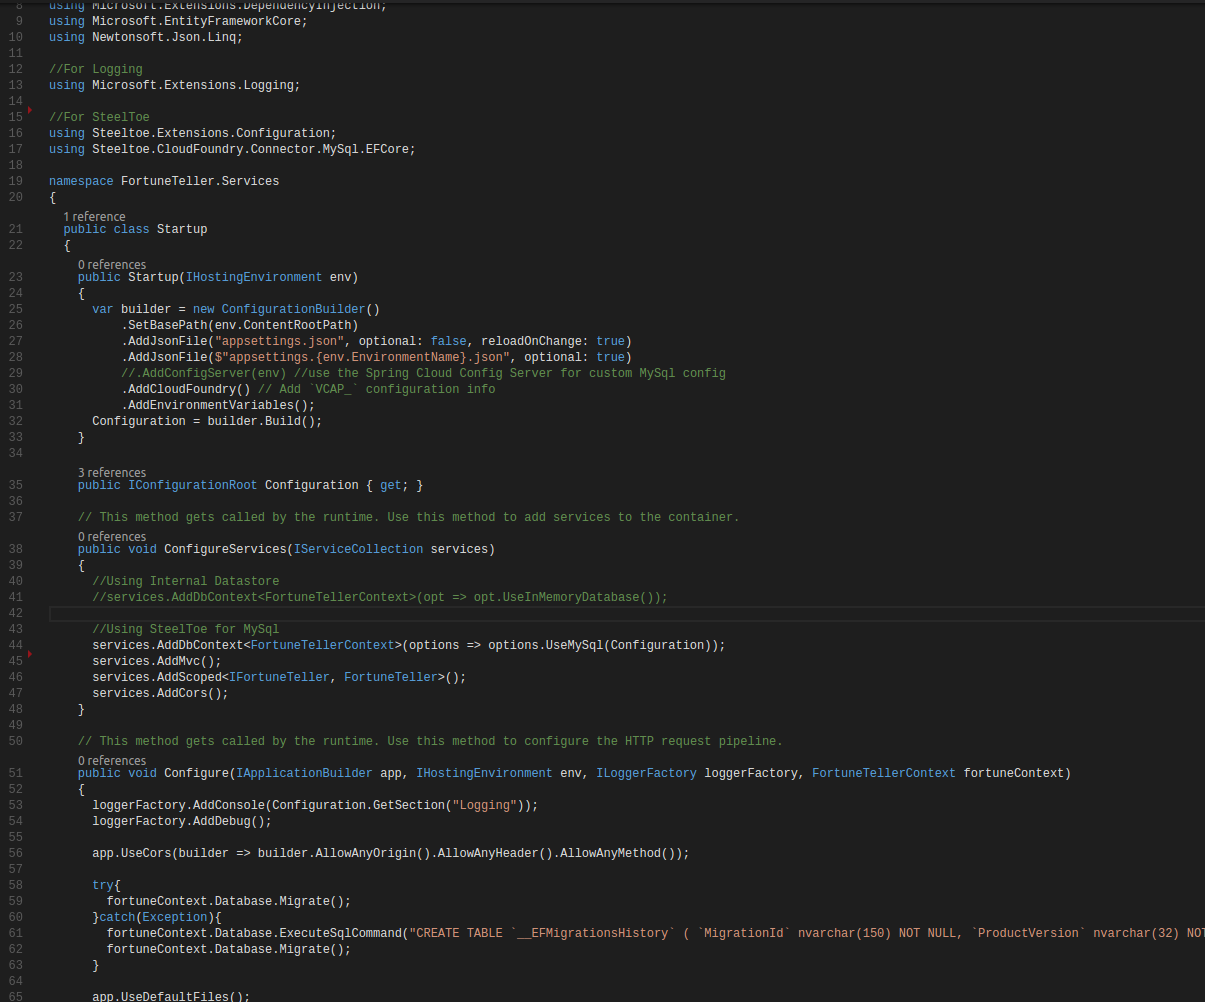
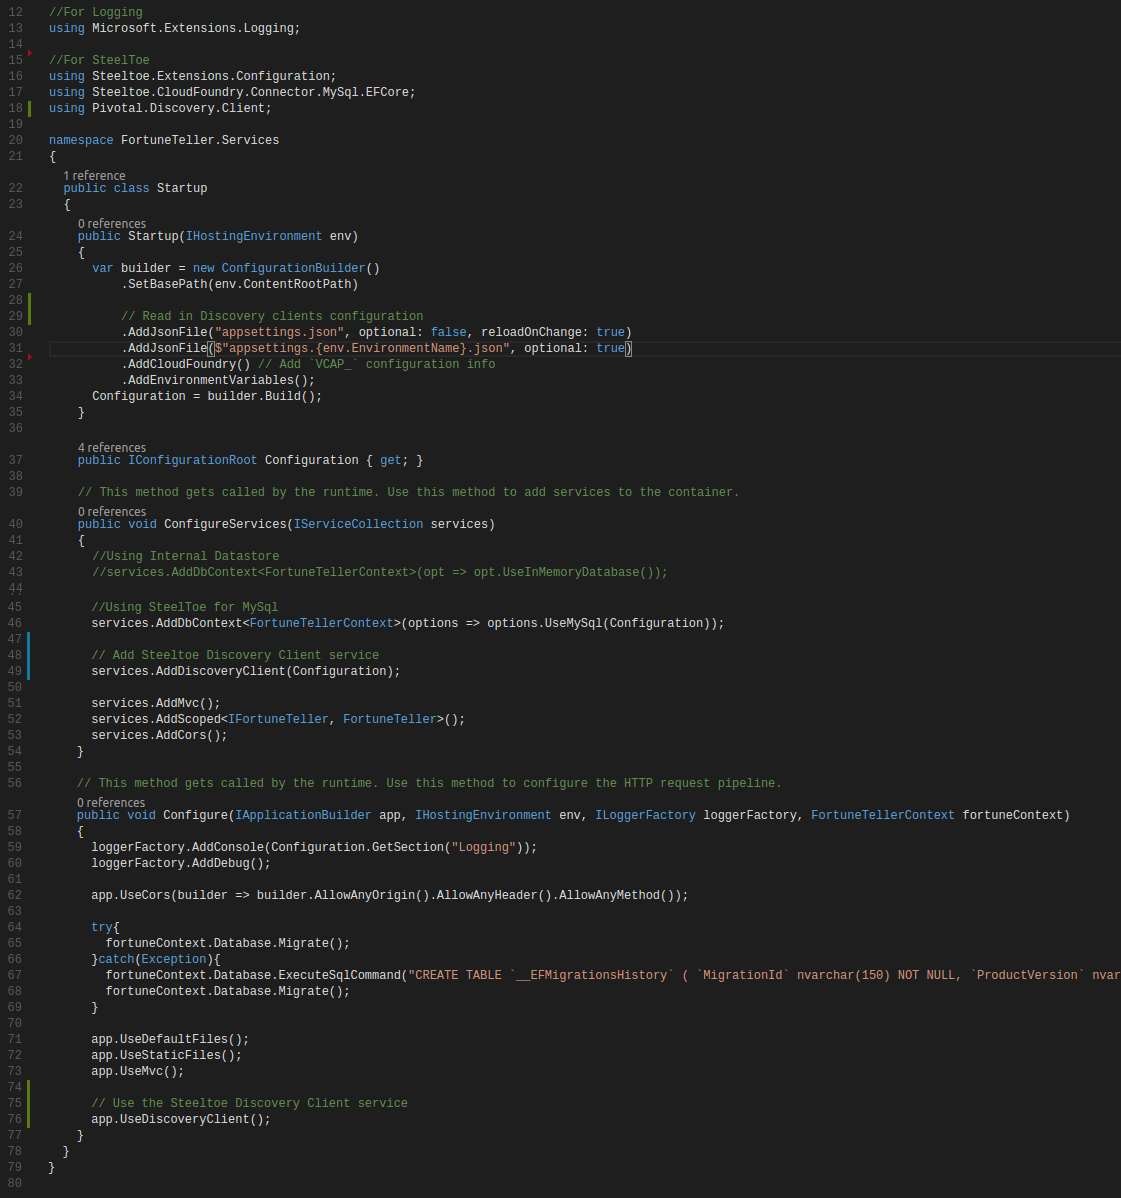
Move labs

diff --git a/Session-02/Lab-07/README.md b/Session-02/Lab-07/README.md
@@ -1,56 +1,103 @@
-[appmanager-service-registry]: img/appmanager-service-registry.png " "
+[vsCodeFortuneTellerCs]: img/vsCodeFortuneTellerCs.png " "
+[vsCodeAppSettingsCs]: img/vsCodeAppSettingsCs.png " "
 [vsCodeStartupCs]: img/vsCodeStartupCs.png " "
+[vsCodeManifestCs]: img/vsCodeManifestCs.png " "
 
-# Lab 07 - Refactor DotNet Core with MySql Abstractions
+# Lab 08 - Refactor DotNet Core for Service Discovery
 
-## Change MySql Connection
+## Update AppSettings With Eureka
+1. Within the Fortune Teller service app, go to the /Services/appsettings.json and update the following:
+[Just after the closing bracket for the "Logging" node, add the below json]
+[!!Remember to replace THE_URL_OF_EUREKA with the actual URL]
+```
+,"spring": {
+    "application": {
+      "name": "fortuneTellerService"
+    }
+  },
+  "eureka": {
+    "client": {
+      "serviceUrl": "<THE_URL_OF_EUREKA>",
+      "shouldRegisterWithEureka": false
+    }
+  }
+```
+2. Your file should look like this:
+
+![alt text][vsCodeAppSettingsCs]
+## Add SteelToe Dependencies amd Spring Cloud Discovery
 1. Within the Fortune Teller service app, go to the /Services/Startup.cs file and update the following:
-[Add dependencies]
+[Add the dependencies]
 ```
-using Steeltoe.Extensions.Configuration;
-using Steeltoe.CloudFoundry.Connector.MySql.EFCore;
+using Steeltoe.Discovery.Client;
 ```
-[Update the builder configuration to include CloudFoundry service]
+[Add the following line to ConfigureServices method]
 ```
-var builder = new ConfigurationBuilder()
-				.SetBasePath(env.ContentRootPath)
-				.AddJsonFile("appsettings.json", optional: false, reloadOnChange: true)
-				.AddJsonFile($"appsettings.{env.EnvironmentName}.json", optional: true)
--->			.AddCloudFoundry()
-				.AddEnvironmentVariables();
+services.AddDiscoveryClient(Configuration);
 ```
-[Comment out the InMemory data context]
+[Add the following line to the Configure method]
 ```
-//services.AddDbContext<FortuneTellerContext>(opt => opt.UseInMemoryDatabase());
+app.UseDiscoveryClient();
 ```
-[Remove the below code]
-```
-//Using MySql Datastore
-string connString = "";
+2. Your file should look like this:
 
-try{
-	dynamic vcap = JObject.Parse(Environment.GetEnvironmentVariable("VCAP_SERVICES"));
-	connString = String.Format("Server={0};port={1};Database={2};uid={3};pwd={4};",
-		vcap["p-mysql"][0].credentials.hostname,
-		vcap["p-mysql"][0].credentials.port,
-		vcap["p-mysql"][0].credentials.name,
-		vcap["p-mysql"][0].credentials.username,
-		vcap["p-mysql"][0].credentials.password);
-}catch(Exception ex){
-	Console.Error.WriteLine("Error retrieving database connection string from environment variables");
-	Console.Error.WriteLine(ex);
-	Environment.Exit(1);
-}
-
-services.AddDbContext<FortuneTellerContext>(opt => opt.UseMySQL(connString));
-```
-[Add the new new MySql connection]
-```
-services.AddDbContext<FortuneTellerContext>(opt => opt.UseMySql(Configuration));
-```
-2. Save your changes
-3. The Startup.cs file should look like this:
 ![alt text][vsCodeStartupCs]
+## Update Manifest With Spring Cloud Services
+1. Within the Fortune Teller service app, go to the manifest.yml file and update the following:
+[Add Spring Cloud services binding]
+[!!Remember to replace NAME_OF_YOUR_SPRING_CLOUD_SERVICE and NAME_OF_YOUR_SPRING_CLOUD_CONFIG_SERVICE with the actual service names]
+```
+  services:
+    - mysql-100mb
+    - <NAME_OF_YOUR_SPRING_CLOUD_SERVICE>
+```
+2. Your file should look like this:
+
+![alt text][vsCodeManifestCs]
+## About This
+We have now told the app where to find the Eureka discovery server, configured it to only discover services and not register services. Once the app has started, the Discovery client will begin to operate in the background; both registering services and periodically fetching the service registry from the server. The simplest way of using the registry to lookup services is to use the Steeltoe DiscoveryHttpClientHandler together with a System.Net.Http.HttpClient.
+
+Further reading and examples are available at: http://steeltoe.io/docs/steeltoe-discovery/
+
+## Consume Discovered Service
+1. Within the Fortune Teller service app, go to the /Services/Controllers/FortuneCOntroller.cs file and update the following:
+[Add the SteelToe and Json dependency]
+```
+using Pivotal.Discovery.Client;
+using Newtonsoft.Json;
+```
+[Within the FortuneController class, as a class wide variable, add the discovery handler]
+```
+DiscoveryHttpClientHandler _handler;
+```
+[Refactor the FortuneController constructor method]
+```
+public FortuneController(IFortuneTeller iFortuneTeller, IDiscoveryClient client ){
+      _iFortuneTeller = iFortuneTeller ;
+      _handler = new DiscoveryHttpClientHandler(client);
+  }
+```
+[Refactor the GetRandom method to use discovered services]
+```
+public Fortune GetRandom(){
+	//return _iFortuneTeller.GetRandom();
+  var client = new System.Net.Http.HttpClient(_handler, false);
+  //get the random fortune
+  var task = client.GetStringAsync("https://fortunes/random");
+  task.Wait();
+
+  var result = task.Result;
+
+  Fortune f = (Fortune)JsonConvert.DeserializeObject(result);
+  return f;
+}
+```
+2. Your file should look like this:
+
+![alt text][vsCodeFortuneTellerCs]
+
+## About This
+The discovered service is asynchronous but our endpoint is synchronous, so we used a blocking task to complete the request. Notice the format of the Http request "https://fortunes/random". If you break this down, the "fortunes" piece
 
 ## Push The App
 1. Open a Terminal (or command prompt) and navigate to the app directory.
@@ -77,10 +124,10 @@ Space:          Development
 2. The column labeled 'Route' will offer a link to execute the app. Click the route for the 'fortune-teller-www' app.
 3. A new tab will be created, loading the FortuneTeller app web site
 ![alt text][fortuneTellerWebSite]
-4. How easy was that?! The app is using the same MySql database but not more connection string.
+4. The site is now using SteelToe and Spring Cloud Services to get a random fontune from a Java microservice.
 
 
 ___
 
 ___
-| **[Prev Lab](../Lab-06/README.md)** |_______________________________________________________________________________| **[Next Lab](../Lab-08/README.md)** |
+| **[Prev Lab](../Lab-06/README.md)** |_______________________________________________________________________________| **[Finished](../../README.md)** |

diff --git a/Session-02/Lab-05/README.md b/Session-02/Lab-05/README.md
@@ -1,24 +1,67 @@
-# Lab 05 - Start Spring Cloud Services and Configure
+[appmanager-service-registry]: img/appmanager-service-registry.png " "
+[vsCodeStartupCs]: img/vsCodeStartupCs.png " "
 
-## Clone Source
-1. Download the app source code, by cloning Git Repo
+# Lab 05 - Refactor DotNet Core with MySql Abstractions
+
+## Change MySql Connection
+1. Within the Fortune Teller service app, go to the /Services/Startup.cs file and update the following:
+[Add dependencies]
 ```
-> mkdir SCS-Java-App
-> cd SCS-Java-App
-> git clone https://github.com/ddieruf/SCSJavaApp.git
-> cd SCSJavaApp
+using Steeltoe.Extensions.Configuration;
+using Steeltoe.CloudFoundry.Connector.MySql.EFCore;
 ```
+[Update the builder configuration to include CloudFoundry service]
+```
+var builder = new ConfigurationBuilder()
+				.SetBasePath(env.ContentRootPath)
+				.AddJsonFile("appsettings.json", optional: false, reloadOnChange: true)
+				.AddJsonFile($"appsettings.{env.EnvironmentName}.json", optional: true)
+-->			.AddCloudFoundry()
+				.AddEnvironmentVariables();
+```
+[Comment out the InMemory data context]
+```
+//services.AddDbContext<FortuneTellerContext>(opt => opt.UseInMemoryDatabase());
+```
+[Remove the below code]
+```
+//Using MySql Datastore
+string connString = "";
+
+try{
+	dynamic vcap = JObject.Parse(Environment.GetEnvironmentVariable("VCAP_SERVICES"));
+	connString = String.Format("Server={0};port={1};Database={2};uid={3};pwd={4};",
+		vcap["p-mysql"][0].credentials.hostname,
+		vcap["p-mysql"][0].credentials.port,
+		vcap["p-mysql"][0].credentials.name,
+		vcap["p-mysql"][0].credentials.username,
+		vcap["p-mysql"][0].credentials.password);
+}catch(Exception ex){
+	Console.Error.WriteLine("Error retrieving database connection string from environment variables");
+	Console.Error.WriteLine(ex);
+	Environment.Exit(1);
+}
+
+services.AddDbContext<FortuneTellerContext>(opt => opt.UseMySQL(connString));
+```
+[Add the new new MySql connection]
+```
+services.AddDbContext<FortuneTellerContext>(opt => opt.UseMySql(Configuration));
+```
+2. Save your changes
+3. The Startup.cs file should look like this:
+![alt text][vsCodeStartupCs]
 
 ## Push The App
 1. Open a Terminal (or command prompt) and navigate to the app directory.
 ```
-> cd ~/SCS-Java-App/SCSJavaApp
+> cd ~/DotNet-Core-SteelToe-Workshop/FortuneTeller
 ```
 2. Confirm the API target is set
 ```
 > cf target
 
-API endpoint:   https://api.system.XXXXXX.XXX
+API endpoint:   <PROVIDED_BY_INSTRUCTOR>
 User:           USER123
 Org:            Student01
 Space:          Development
@@ -27,12 +70,17 @@ Space:          Development
 ```
 > cf push
 ```
-4. The cf cli will provide feedback about each step it takes to create the App Container and deploy.
+4. The cf cli will provide feedback about each step it takes to create the App Container and deploy
 
-##Bind Service Registry
+## View The App
+1. In AppManager click the 'Development' space in the left box
+2. The column labeled 'Route' will offer a link to execute the app. Click the route for the 'fortune-teller-www' app.
+3. A new tab will be created, loading the FortuneTeller app web site
+![alt text][fortuneTellerWebSite]
+4. How easy was that?! The app is using the same MySql database but not more connection string.
 
 
 ___
 
 ___
-| **[Home](../../README.md)** |__________________________________________________________________________________| **[Next Lab](../Lab-06/README.md)** |
+| **[Home](../../README.md)** |_______________________________________________________________________________| **[Next Lab](../Lab-06/README.md)** |

diff --git a/README.md b/README.md
@@ -19,10 +19,9 @@ This workshop assumes the student has a basic understanding of Pivotal Cloud Fou
   - Lab 4 - Zero Downtime Deployments
 
 #### Session 2: Spring Cloud Services and the SteelToe Framework - [Start Session](Session-02/Lab-05/README.md)
-  - Lab 5 - Start SCS and Configure
+  - Lab 5 - Refactor DotNet Core with MySql Abstractions
   - Lab 6 - Service Discovery through Eureka
-  - Lab 7 - Refactor DotNet Core with MySql Abstractions
-  - Lab 8 - Refactor DotNet Core for Service Discovery
+  - Lab 7 - Refactor DotNet Core for Service Discovery
 
 #### Session 3: Spring Cloud Data Flow (SCDF) with GemFire
   - Spring Cloud Data Flow and GemFire Overview
